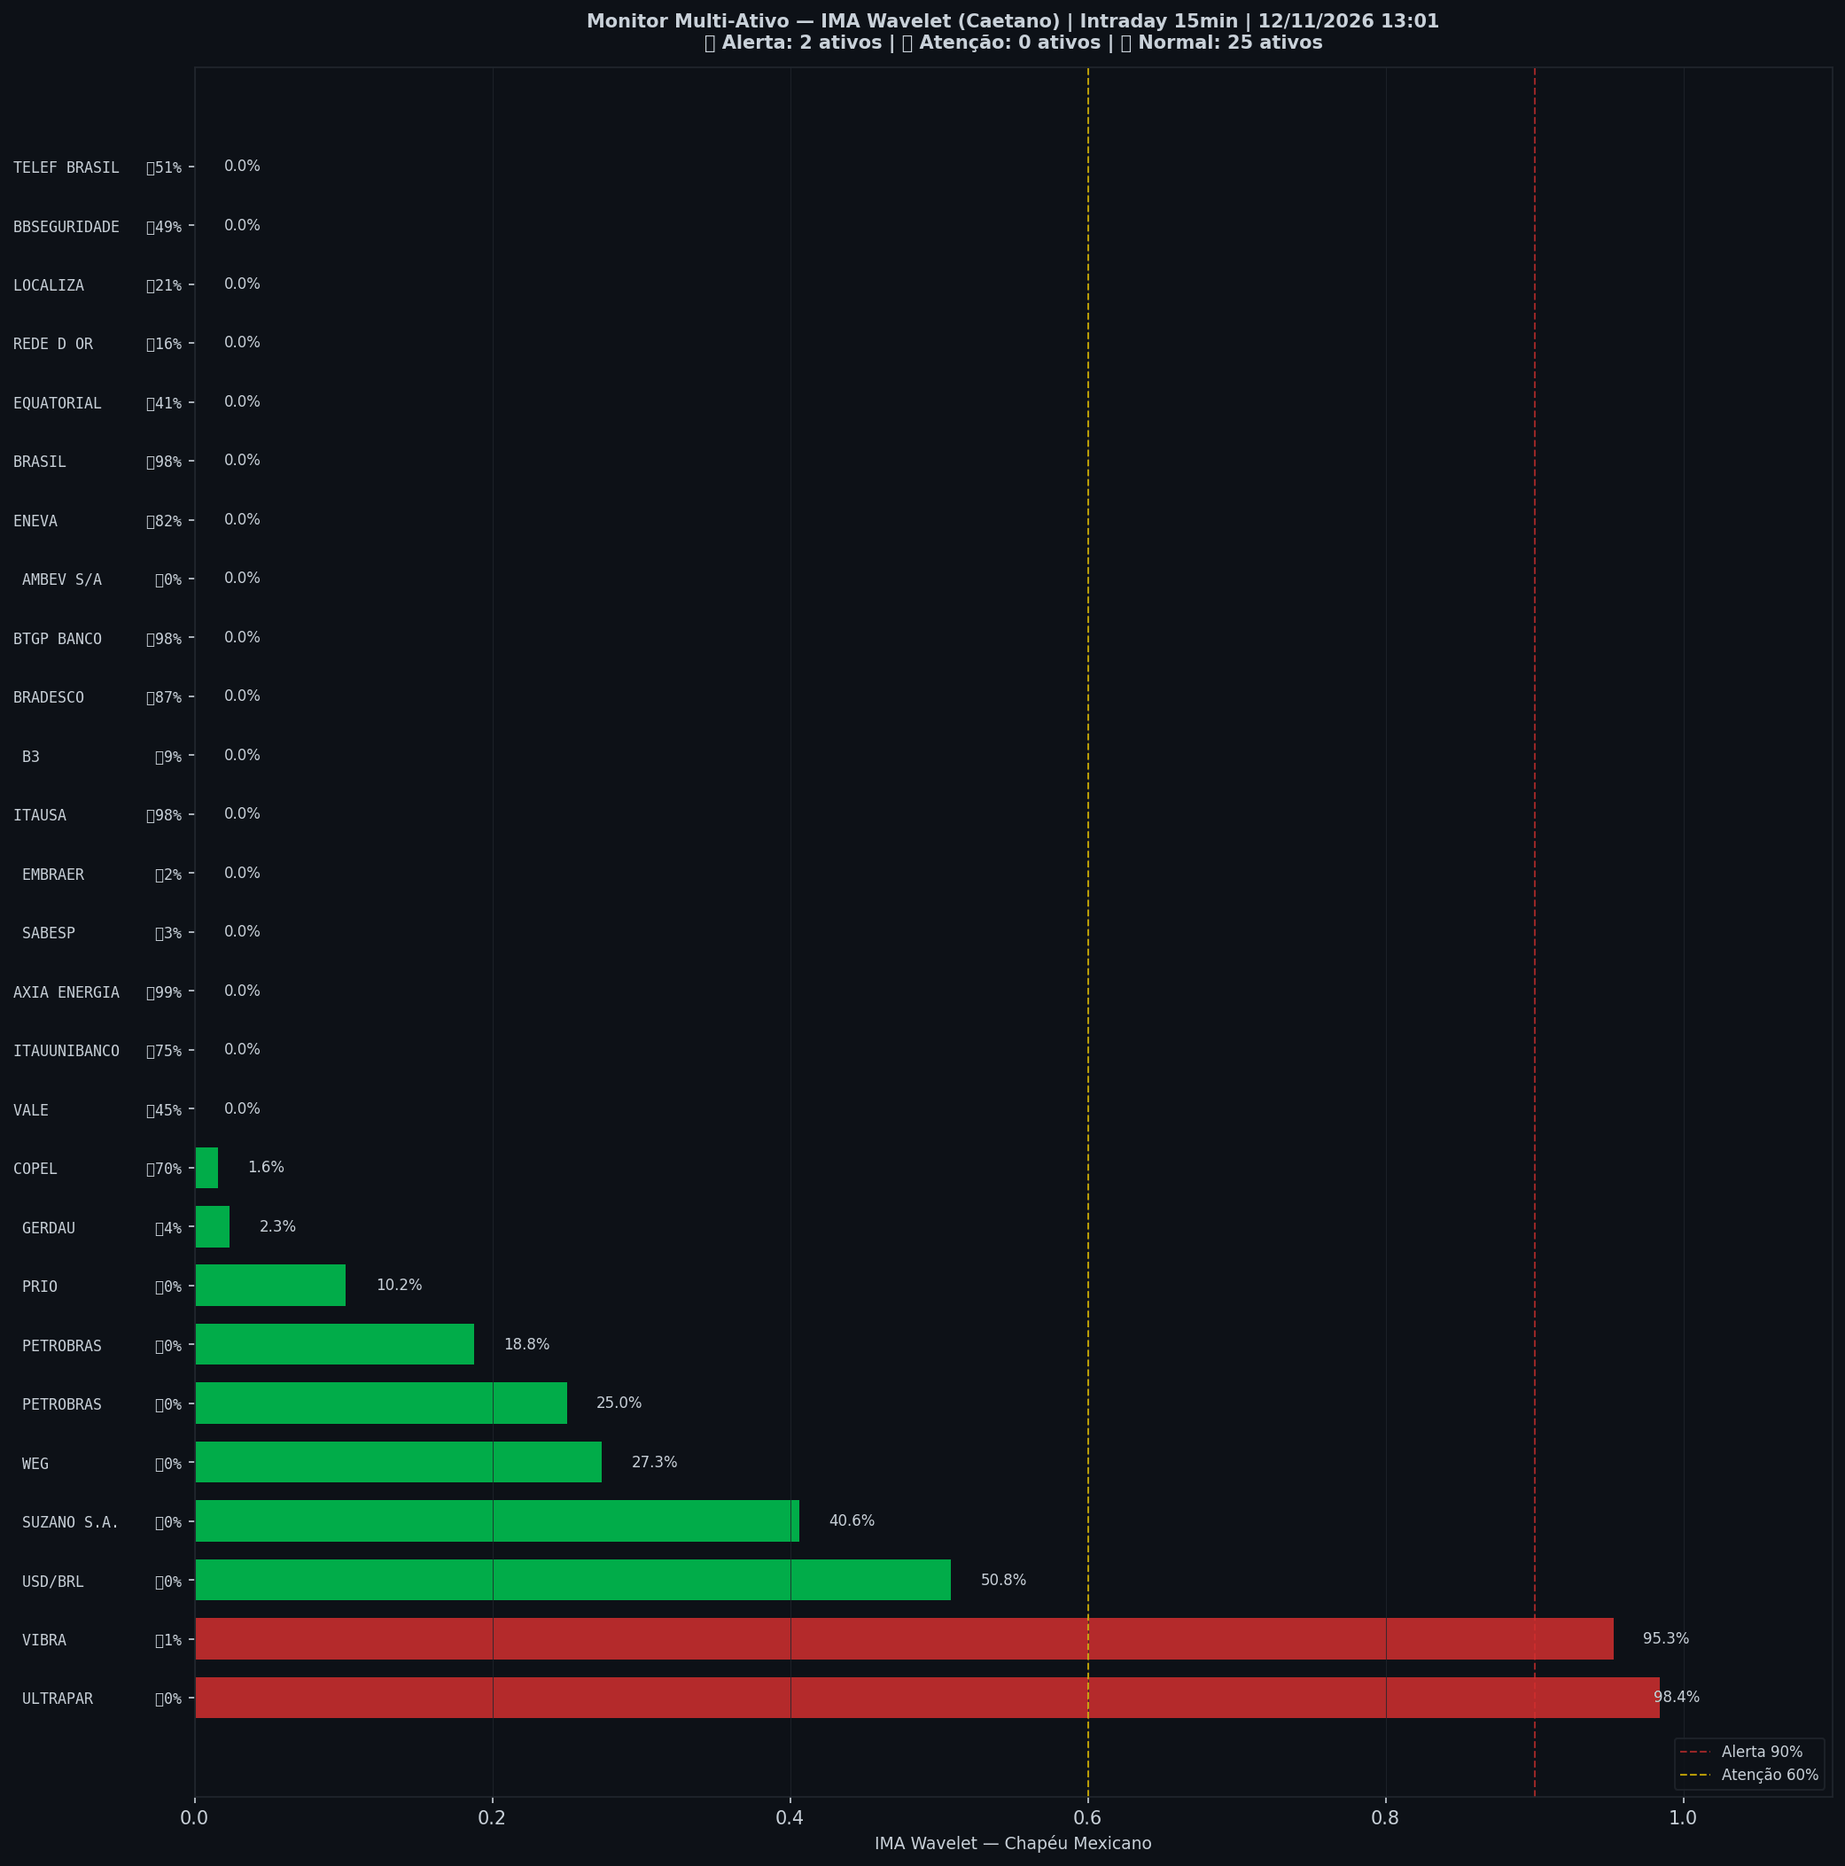
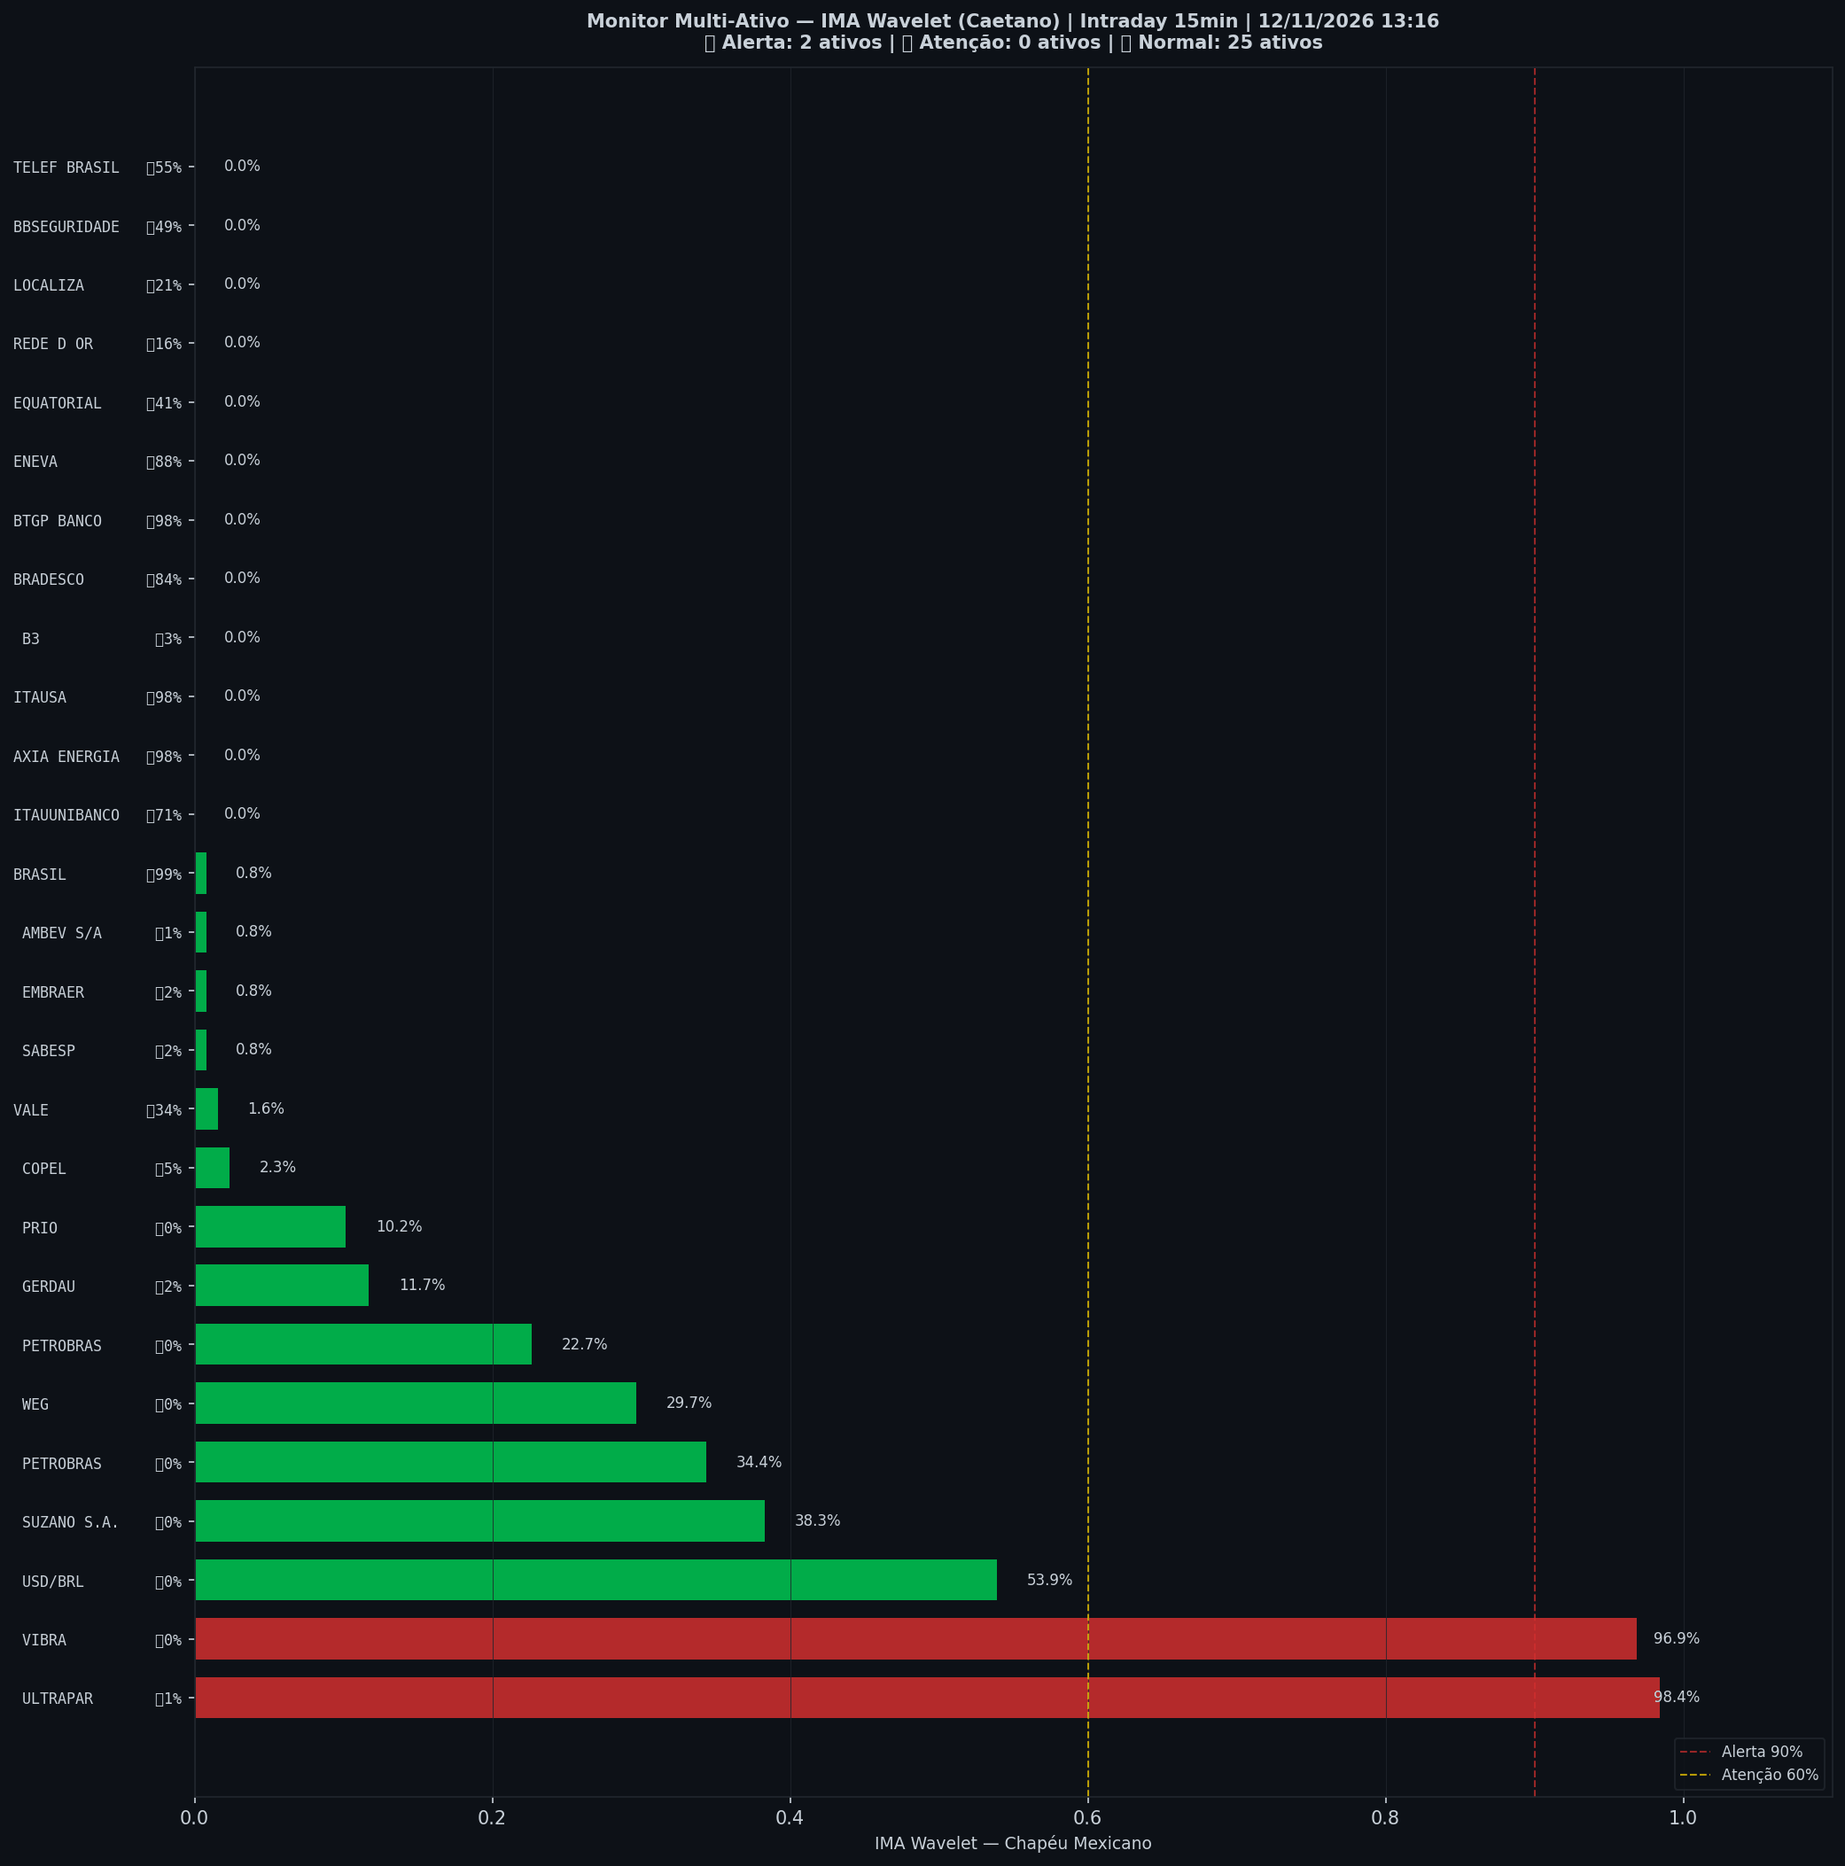
🤖 Auto: Sinal 12/11/2026 13:16

diff --git a/content/intraday/2026-11-12.md b/content/intraday/2026-11-12.md
@@ -1,11 +1,11 @@
 ---
-title: "🟢 Intraday 12/11/2026 12:45 BRT — VERDE"
+title: "🟢 Intraday 12/11/2026 13:00 BRT — VERDE"
 date: 2026-11-12
 tags: [intraday]
 ---
 
-> [!danger] Onde o mercado está agora (12/11 12:45, candles de 15 min): **🔪 Queda forte**
-> `Pânico ◀●────────────────────▶ Euforia`
+> [!danger] Onde o mercado está agora (12/11 13:00, candles de 15 min): **🔪 Queda forte**
+> `Pânico ◀─●───────────────────▶ Euforia`
 >
 > O Ibovespa caiu rápido e está bem abaixo da sua tendência, em ritmo de pânico. Historicamente, quedas assim costumaram continuar um pouco antes de virar.
 > No gráfico diário: 🌱 Fundo se desfazendo.
@@ -20,26 +20,26 @@ tags: [intraday]
 > | 📍 **Sinais** | hoje: nenhum sinal | [abrir](sinais-topo-fundo/) |
 > | 🧪 **Placar ao vivo** | 1 operação(ões), 0 com lucro, soma -0,8% | [abrir](operacoes/) |
 
-> [!success] IMA Intraday · 15 min (12/11 12:45): 🟢 **VERDE** — Risco 0% · ＝ +0 p.p. vs leitura anterior
+> [!success] IMA Intraday · 15 min (12/11 13:00): 🟢 **VERDE** — Risco 0% · ＝ +0 p.p. vs leitura anterior
 > `░░░░░░░░░░░░░░░░░░░░`
 > Preço na faixa normal em torno da tendência.
 
 
-> [!danger] 🚨 Nível EXTREMO agora — IMA Intraday · 15 min (12/11 12:45)
-> - 🔪 **ζ Fundo 98%** — preço esticado abaixo da tendência — 🔪 faca caindo: queda forte em andamento
+> [!danger] 🚨 Nível EXTREMO agora — IMA Intraday · 15 min (12/11 13:00)
+> - 🔪 **ζ Fundo 95%** — preço esticado abaixo da tendência — 🔪 faca caindo: queda forte em andamento
 
 > [!note] 🧭 IMA Diário · viés (11/11): 🌱 **Fundo se desfazendo**
 > 📚 só contexto: o pânico passou; sem vantagem estatística confirmada para comprar só por isso
 >
 > *Leitura educacional baseada em 26 anos de dados, não recomendação. [Como usar](../metodologia/crise#3-como-usar-na-prática).*
 
-| Indicador — IMA Intraday · 15 min (12/11 12:45) | Valor |
+| Indicador — IMA Intraday · 15 min (12/11 13:00) | Valor |
 |---|---|
 | 🔴 ζ Topo — preço esticado acima da tendência | **0%** |
-| 🔵 ζ Fundo — preço esticado abaixo da tendência | 🔪 **98%** |
+| 🔵 ζ Fundo — preço esticado abaixo da tendência | 🔪 **95%** |
 | 🫧 LPPL bolha — alta super-exponencial (risco de crash) | 0% |
 | 🫧 LPPL antibolha — queda super-exponencial (risco de repique) | 0% |
-| 📊 Ibovespa | 171.188 pts |
+| 📊 Ibovespa | 171.638 pts |
 
 ![Gráfico do sinal](../graficos/sinal_intraday.png)
 
@@ -47,6 +47,7 @@ tags: [intraday]
 
 | Data | Zona | Evento | Risco | ζ Topo | ζ Fundo | LPPL |
 |---|---|---|---|---|---|---|
+| 2026-11-12 13:00 | 🟢 VERDE |  | **0%** | 0% | 🔪 **95%** | 0% |
 | 2026-11-12 12:45 | 🟢 VERDE |  | **0%** | 0% | 🔪 **98%** | 0% |
 | 2026-11-12 12:30 | 🟢 VERDE |  | **0%** | 0% | 🔪 **100%** | 0% |
 | 2026-11-12 12:15 | 🟢 VERDE |  | **0%** | 0% | 🔪 **99%** | 0% |
@@ -76,52 +77,51 @@ tags: [intraday]
 | 2026-11-11 14:30 | 🟢 VERDE |  | **0%** | 0% | 5% | 0% |
 | 2026-11-11 14:15 | 🟢 VERDE |  | **0%** | 0% | 4% | 0% |
 | 2026-11-11 14:00 | 🟢 VERDE |  | **0%** | 0% | 5% | 0% |
-| 2026-11-11 13:45 | 🟢 VERDE |  | **0%** | 0% | 3% | 0% |
 
 <small>Destaques: 🟡 ≥ 60% · 🔴 ≥ 90% (Risco e ζ Topo) · 🔵 ≥ 60% · 🔪 ≥ 90% (ζ Fundo) · 🫧 ≥ 30% · 🫧🔴 ≥ 50% (LPPL)</small>
 
 ## Monitor Multi-Ativo
 
-**7% dos ativos em tensão** (2🔴 0🟡) · **8 com ζ Fundo alto** — quanto mais ativos disparam juntos, mais confiável o sinal.
+**7% dos ativos em tensão** (2🔴 0🟡) · **7 com ζ Fundo alto** — quanto mais ativos disparam juntos, mais confiável o sinal.
 
 > [!danger] Em destaque no multi-ativo
-> 🔪 **AXIA ENERGIA** ζ Fundo 99% · 🔪 **ITAUSA** ζ Fundo 98% · 🔪 **BTGP BANCO** ζ Fundo 98% · 🔪 **BRASIL** ζ Fundo 98% · 🔴 **ULTRAPAR** ζ Topo 98% · 🔴 **VIBRA** ζ Topo 95% · 🔵 **BRADESCO** ζ Fundo 87% · 🔵 **ENEVA** ζ Fundo 82% · 🔵 **ITAUUNIBANCO** ζ Fundo 75% · 🔵 **COPEL** ζ Fundo 70%
+> 🔪 **BRASIL** ζ Fundo 99% · 🔪 **AXIA ENERGIA** ζ Fundo 98% · 🔪 **BTGP BANCO** ζ Fundo 98% · 🔴 **ULTRAPAR** ζ Topo 98% · 🔪 **ITAUSA** ζ Fundo 98% · 🔴 **VIBRA** ζ Topo 97% · 🔵 **ENEVA** ζ Fundo 88% · 🔵 **BRADESCO** ζ Fundo 84% · 🔵 **ITAUUNIBANCO** ζ Fundo 71%
 
 | Zona | Ativo | Setor | ζ Topo | ζ Fundo |
 |---|---|---|---|---|
-| 🟢 | **AXIA ENERGIA** | Energia | 0.0% | 🔪 **99.2%** |
-| 🟢 | **ITAUSA** | Financeiro | 0.0% | 🔪 **98.4%** |
+| 🟢 | **BRASIL** | Financeiro | 0.8% | 🔪 **99.2%** |
+| 🟢 | **AXIA ENERGIA** | Energia | 0.0% | 🔪 **98.4%** |
 | 🟢 | **BTGP BANCO** | Financeiro | 0.0% | 🔪 **98.4%** |
-| 🟢 | **BRASIL** | Financeiro | 0.0% | 🔪 **98.4%** |
-| 🔴 | **ULTRAPAR** | Outros | 🔴 **98.4%** | 0.0% |
-| 🔴 | **VIBRA** | Energia | 🔴 **95.3%** | 0.8% |
-| 🟢 | **BRADESCO** | Financeiro | 0.0% | 🔵 **86.7%** |
-| 🟢 | **ENEVA** | Energia | 0.0% | 🔵 **82.0%** |
-| 🟢 | **ITAUUNIBANCO** | Financeiro | 0.0% | 🔵 **75.0%** |
-| 🟢 | **COPEL** | Energia | 1.6% | 🔵 **70.3%** |
-| 🟢 | **TELEF BRASIL** | Outros | 0.0% | 50.8% |
-| 🟢 | **USD/BRL** | Câmbio | 50.8% | 0.0% |
+| 🔴 | **ULTRAPAR** | Outros | 🔴 **98.4%** | 0.8% |
+| 🟢 | **ITAUSA** | Financeiro | 0.0% | 🔪 **97.7%** |
+| 🔴 | **VIBRA** | Energia | 🔴 **96.9%** | 0.0% |
+| 🟢 | **ENEVA** | Energia | 0.0% | 🔵 **87.5%** |
+| 🟢 | **BRADESCO** | Financeiro | 0.0% | 🔵 **84.4%** |
+| 🟢 | **ITAUUNIBANCO** | Financeiro | 0.0% | 🔵 **71.1%** |
+| 🟢 | **TELEF BRASIL** | Outros | 0.0% | 54.7% |
+| 🟢 | **USD/BRL** | Câmbio | 53.9% | 0.0% |
 | 🟢 | **BBSEGURIDADE** | Financeiro | 0.0% | 49.2% |
-| 🟢 | **VALE** | Mineração | 0.0% | 44.5% |
 | 🟢 | **EQUATORIAL** | Energia | 0.0% | 40.6% |
-| 🟢 | **SUZANO S.A.** | Papel/Celulose | 40.6% | 0.0% |
-| 🟢 | **WEG** | Industrial | 27.3% | 0.0% |
-| 🟢 | **PETROBRAS** | Petróleo | 25.0% | 0.0% |
+| 🟢 | **SUZANO S.A.** | Papel/Celulose | 38.3% | 0.0% |
+| 🟢 | **VALE** | Mineração | 1.6% | 34.4% |
+| 🟢 | **PETROBRAS** | Petróleo | 34.4% | 0.0% |
+| 🟢 | **WEG** | Industrial | 29.7% | 0.0% |
+| 🟢 | **PETROBRAS** | Petróleo | 22.7% | 0.0% |
 | 🟢 | **LOCALIZA** | Aluguel | 0.0% | 21.1% |
-| 🟢 | **PETROBRAS** | Petróleo | 18.8% | 0.0% |
-| 🟢 | **REDE D OR** | Saúde | 0.0% | 16.4% |
+| 🟢 | **REDE D OR** | Saúde | 0.0% | 15.6% |
+| 🟢 | **GERDAU** | Siderurgia | 11.7% | 1.6% |
 | 🟢 | **PRIO** | Petróleo | 10.2% | 0.0% |
-| 🟢 | **B3** | Financeiro | 0.0% | 9.4% |
-| 🟢 | **GERDAU** | Siderurgia | 2.3% | 3.9% |
-| 🟢 | **SABESP** | Saneamento | 0.0% | 3.1% |
-| 🟢 | **EMBRAER** | Outros | 0.0% | 2.3% |
-| 🟢 | **AMBEV S/A** | Consumo | 0.0% | 0.0% |
+| 🟢 | **COPEL** | Energia | 2.3% | 4.7% |
+| 🟢 | **B3** | Financeiro | 0.0% | 3.1% |
+| 🟢 | **EMBRAER** | Outros | 0.8% | 2.3% |
+| 🟢 | **SABESP** | Saneamento | 0.8% | 1.6% |
+| 🟢 | **AMBEV S/A** | Consumo | 0.8% | 0.8% |
 
 <small>Destaques: 🟡 ≥ 60% · 🔴 ≥ 90% (Risco e ζ Topo) · 🔵 ≥ 60% · 🔪 ≥ 90% (ζ Fundo) · 🫧 ≥ 30% · 🫧🔴 ≥ 50% (LPPL)</small>
 
 ![Monitor multi-ativo](../graficos/multi_intraday.png)
 
-*Página atualizada em 12/11/2026 13:01 BRT (leitura da barra de 2026-11-12 12:45 BRT).*
+*Página atualizada em 12/11/2026 13:16 BRT (leitura da barra de 2026-11-12 13:00 BRT).*
 
 > [!warning] O que este indicador não faz
 > Medido em 5 anos de Ibovespa, o ζ **não antecipa** topos nem fundos: a capacidade de separar o que sobe do que cai ficou em 0,49–0,52, e 0,50 é moeda jogada ao ar. Ele descreve o estado de agora; não é aviso do que vem. As zonas verde/amarelo/vermelho continuam na página como descrição desse estado — **não as use como sinal de entrada ou saída**.

diff --git a/content/index.md b/content/index.md
@@ -6,18 +6,18 @@ tags: [home]
 
 **As ondas do mercado, explicadas.** Leitura do Ibovespa com estatística de 26 anos, baseada no trabalho de pesquisadores e traders reconhecidos e adaptada por Jarbas Daniel da Costa.
 
-*Última atualização: 12/11/2026 13:01 BRT · Intraday 15min*
+*Última atualização: 12/11/2026 13:16 BRT · Intraday 15min*
 
-> [!danger] Onde o mercado está agora (12/11 12:45, candles de 15 min): **🔪 Queda forte**
-> `Pânico ◀●────────────────────▶ Euforia`
+> [!danger] Onde o mercado está agora (12/11 13:00, candles de 15 min): **🔪 Queda forte**
+> `Pânico ◀─●───────────────────▶ Euforia`
 >
 > O Ibovespa caiu rápido e está bem abaixo da sua tendência, em ritmo de pânico. Historicamente, quedas assim costumaram continuar um pouco antes de virar.
 > No gráfico diário: 🌱 Fundo se desfazendo.
 >
 > *Leitura educacional baseada em 26 anos de dados. Não é recomendação de investimento.*
 
-> [!danger] 🚨 Nível EXTREMO agora — IMA Intraday · 15 min (12/11 12:45)
-> - 🔪 **ζ Fundo 98%** — preço esticado abaixo da tendência — 🔪 faca caindo: queda forte em andamento
+> [!danger] 🚨 Nível EXTREMO agora — IMA Intraday · 15 min (12/11 13:00)
+> - 🔪 **ζ Fundo 95%** — preço esticado abaixo da tendência — 🔪 faca caindo: queda forte em andamento
 
 ## Agora
 
@@ -47,18 +47,18 @@ tags: [home]
 > *Leitura educacional baseada em 26 anos de dados, não recomendação. [Como usar](metodologia/crise#3-como-usar-na-prática).*
 
 > [!info]- 🌊 Detalhes do Sinal IMA (indicadores e últimos 7 pregões)
-> > [!success] IMA Intraday · 15 min (12/11 12:45): 🟢 **VERDE** — Risco 0% · ＝ +0 p.p. vs leitura anterior
+> > [!success] IMA Intraday · 15 min (12/11 13:00): 🟢 **VERDE** — Risco 0% · ＝ +0 p.p. vs leitura anterior
 > > `░░░░░░░░░░░░░░░░░░░░`
 > > Preço na faixa normal em torno da tendência.
 >
 >
-> | Indicador — IMA Intraday · 15 min (12/11 12:45) | Valor |
+> | Indicador — IMA Intraday · 15 min (12/11 13:00) | Valor |
 > |---|---|
 > | 🔴 ζ Topo — preço esticado acima da tendência | **0%** |
-> | 🔵 ζ Fundo — preço esticado abaixo da tendência | 🔪 **98%** |
+> | 🔵 ζ Fundo — preço esticado abaixo da tendência | 🔪 **95%** |
 > | 🫧 LPPL bolha — alta super-exponencial (risco de crash) | 0% |
 > | 🫧 LPPL antibolha — queda super-exponencial (risco de repique) | 0% |
-> | 📊 Ibovespa | 171.188 pts |
+> | 📊 Ibovespa | 171.638 pts |
 >
 > **Multi-ativo:** 7% em tensão (2🔴 0🟡 de 27 ativos)
 >
@@ -66,7 +66,7 @@ tags: [home]
 >
 > | Data | Zona | Risco | ζ Topo | ζ Fundo | LPPL |
 > |---|---|---|---|---|---|
-> | [12/11/2026](intraday/2026-11-12) | 🟢 VERDE | **0%** | 0% | 🔪 **98%** | 0% |
+> | [12/11/2026](intraday/2026-11-12) | 🟢 VERDE | **0%** | 0% | 🔪 **95%** | 0% |
 > | [11/11/2026](intraday/2026-11-11) | 🟢 VERDE | **0%** | 0% | 2% | 0% |
 >
 > <small>Destaques: 🟡 ≥ 60% · 🔴 ≥ 90% (Risco e ζ Topo) · 🔵 ≥ 60% · 🔪 ≥ 90% (ζ Fundo) · 🫧 ≥ 30% · 🫧🔴 ≥ 50% (LPPL)</small>

diff --git a/content/historico.md b/content/historico.md
@@ -5,7 +5,7 @@ tags: [historico]
 
 # 📜 Histórico de leituras (v5)
 
-**2.324 leituras** desde 2026-07-03. Na página ficam os últimos 3 dias leitura por leitura e o resumo de cada dia anterior; o registro inteiro está no arquivo para baixar.
+**2.325 leituras** desde 2026-07-03. Na página ficam os últimos 3 dias leitura por leitura e o resumo de cada dia anterior; o registro inteiro está no arquivo para baixar.
 
 [**Baixar o histórico completo**](historico-completo.csv) (102 KB · abre no Excel e no LibreOffice)
 
@@ -16,6 +16,7 @@ tags: [historico]
 
 | Data | Modo | Zona | Risco | IMA | LPPL |
 |---|---|---|---|---|---|
+| 2026-11-12 13:00 | intraday | 🟢 VERDE | 0% | 0% | 0% |
 | 2026-11-12 12:45 | intraday | 🟢 VERDE | 0% | 0% | 0% |
 | 2026-11-12 12:30 | intraday | 🟢 VERDE | 0% | 0% | 0% |
 | 2026-11-12 12:15 | intraday | 🟢 VERDE | 0% | 0% | 0% |

diff --git a/content/operacoes/ranking.md b/content/operacoes/ranking.md
@@ -5,7 +5,7 @@ tags: [operacoes]
 description: "As regras de compra do site ordenadas pelo resultado, com treino, teste e placar ao vivo"
 ---
 
-*Atualizado 12/11/2026 13:01 · histórico simulado com as regras congeladas em 23/10/2026 + placar ao vivo.*
+*Atualizado 12/11/2026 13:16 · histórico simulado com as regras congeladas em 23/10/2026 + placar ao vivo.*
 
 As regras de compra do site, **da que mais rendeu para a que menos rendeu**. O resultado é por operação, no índice à vista, sem custos e sem juros compostos (a soma é só a soma das operações). **Treino** = entradas de 2001 a 2013 e **teste** = 2014 em diante: uma regra só é confiável se ganhou nos dois. O único resultado sem nenhum ajuste ao histórico é o **placar ao vivo**.
 

diff --git a/content/linha-do-tempo/index.md b/content/linha-do-tempo/index.md
@@ -5,7 +5,7 @@ description: "Todo sinal, ordem, stop e aviso do Pêndulo de Mercado, do mais re
 tags: [eventos]
 ---
 
-*Atualizada 12/11/2026 13:01 BRT · a cada 15 min no pregão e às 19h.*
+*Atualizada 12/11/2026 13:16 BRT · a cada 15 min no pregão e às 19h.*
 
 Tudo o que o sistema fez ou detectou, **do mais recente para o mais antigo**: sinais de topo e fundo, ordens de compra e de venda armadas, compras, vendas, stops, avisos de 🚨 preço perto do nível e mudanças do Sinal IMA. Os **últimos 7 dias** ficam abertos; o resto, por **ano → mês → dia**.
 
